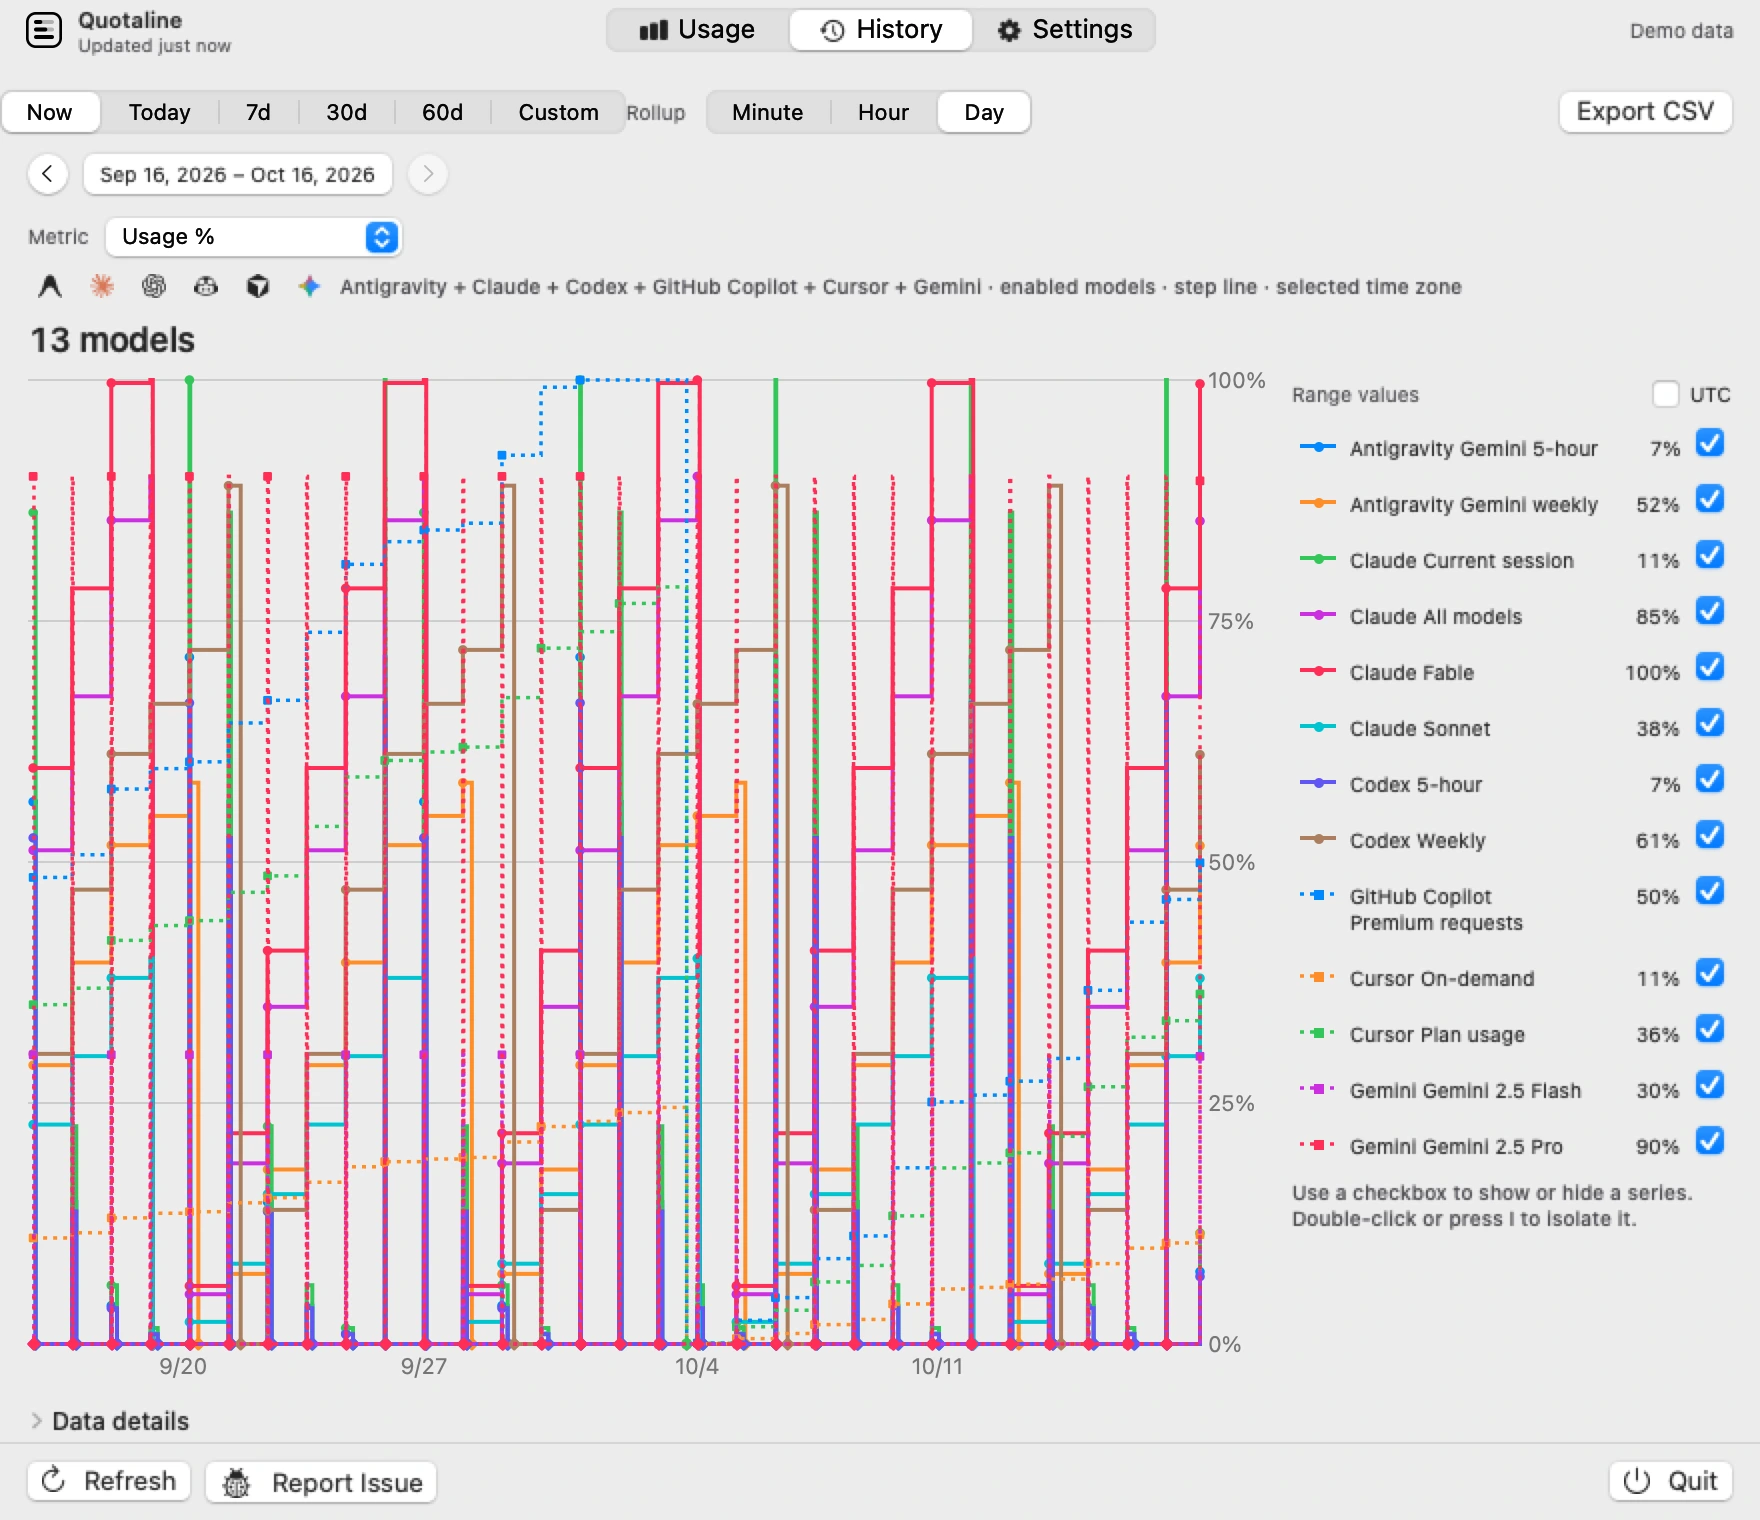
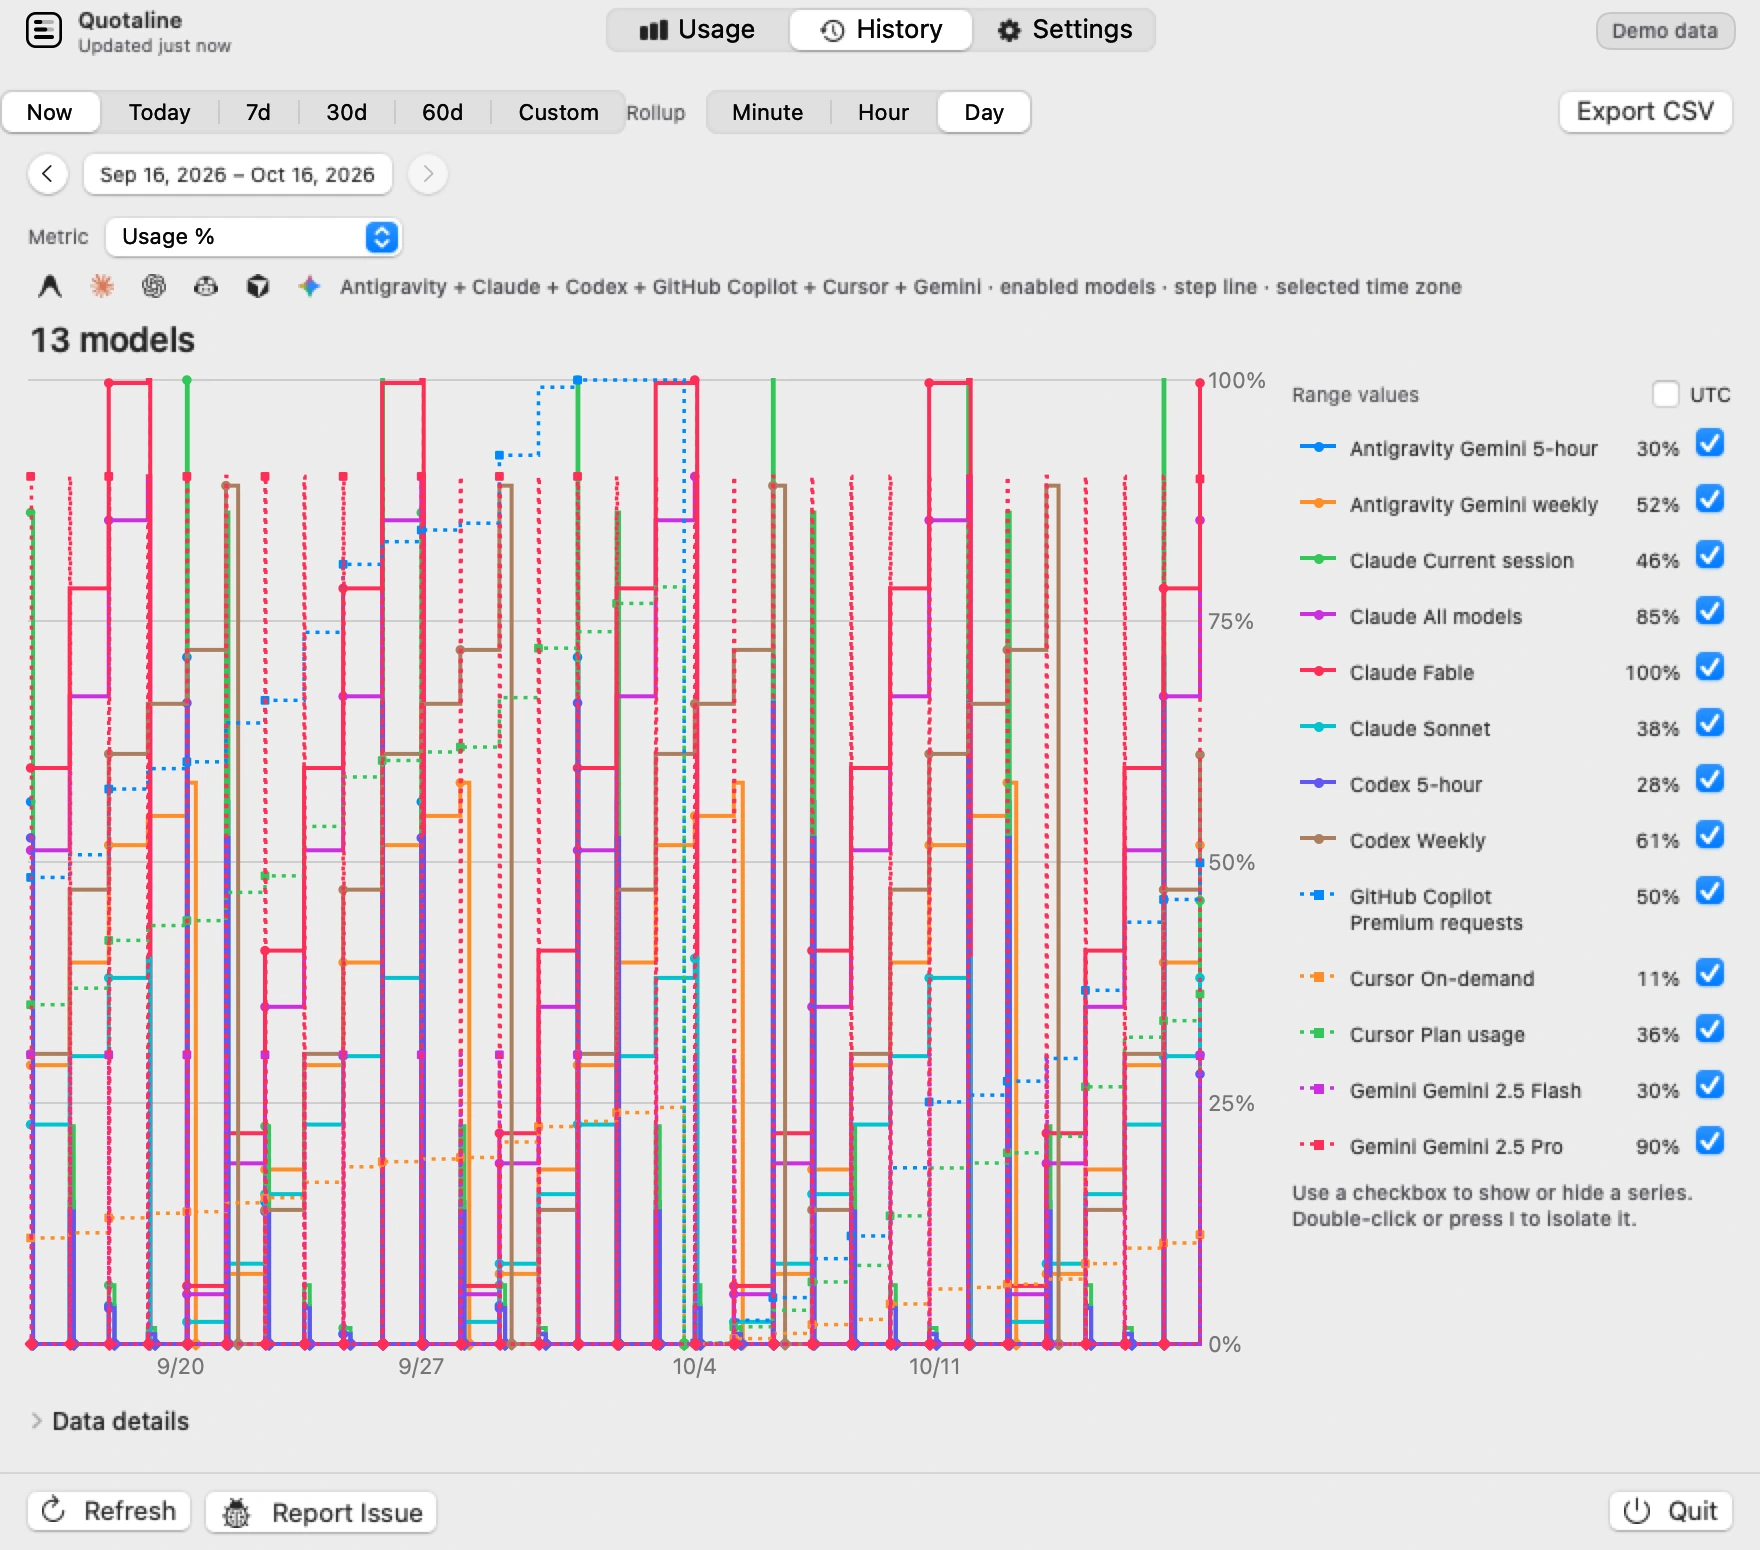
fix: align frontend captures and page width

diff --git a/website/assets/css/site.css b/website/assets/css/site.css
@@ -27,7 +27,6 @@
   --shadow-lg: 0 24px 60px rgba(15, 17, 23, 0.16);
 
   --page: 1240px;
-  --prose: 1140px;
   --sans: -apple-system, BlinkMacSystemFont, "SF Pro Text", "Segoe UI", Inter, system-ui, sans-serif;
   --mono: ui-monospace, SFMono-Regular, "SF Mono", Menlo, "Cascadia Mono", monospace;
 }
@@ -503,14 +502,18 @@ td {
 }
 
 .hero-panel > .shot {
-  max-height: 500px;
-  width: auto;
+  width: min(100%, 440px);
+  height: 500px;
+  object-fit: cover;
+  object-position: top;
   margin: 0 auto;
 }
 
 .hero-preview .shot {
-  max-height: 300px;
-  width: auto;
+  width: 100%;
+  height: 300px;
+  object-fit: cover;
+  object-position: top;
 }
 
 .hero-image .shot {
@@ -639,9 +642,8 @@ td {
 
 .platform-overview {
   display: grid;
-  grid-template-columns: minmax(0, 0.9fr) minmax(0, 1.1fr);
-  align-items: center;
-  gap: clamp(2rem, 5vw, 5rem);
+  grid-template-columns: minmax(0, 1fr);
+  gap: 1.5rem;
   margin-bottom: 3rem;
 }
 
@@ -649,6 +651,7 @@ td {
   display: grid;
   place-items: center;
   min-height: 300px;
+  width: 100%;
   padding: 1.5rem;
   border-radius: var(--radius-lg);
   background: radial-gradient(circle at center, rgba(122, 90, 245, 0.15), transparent 70%), var(--raised);
@@ -657,6 +660,10 @@ td {
 .platform-overview-image .shot {
   width: 100%;
   height: auto;
+}
+
+.platform-gallery-panel .shot {
+  max-width: 880px;
 }
 
 .platform-gallery {
@@ -875,14 +882,14 @@ td {
 }
 
 .page .wrap {
-  max-width: var(--prose);
+  max-width: var(--page);
 }
 
 .page .doc-layout {
   max-width: var(--page);
   display: grid;
-  grid-template-columns: 220px minmax(0, 1fr);
-  gap: clamp(2rem, 4vw, 4rem);
+  grid-template-columns: minmax(0, 1fr);
+  gap: 1.5rem;
 }
 
 .doc-main {
@@ -890,13 +897,10 @@ td {
 }
 
 .doc-sidebar {
-  position: sticky;
-  top: 95px;
-  align-self: start;
-  display: grid;
-  gap: 0.15rem;
-  max-height: calc(100vh - 110px);
-  overflow-y: auto;
+  display: flex;
+  flex-wrap: wrap;
+  align-items: center;
+  gap: 0.2rem;
   font-size: 0.88rem;
 }
 
@@ -916,16 +920,11 @@ td {
 .doc-sidebar .doc-sidebar-title {
   color: var(--ink);
   font-weight: 700;
-  margin-bottom: 0.5rem;
+  margin-right: 0.5rem;
 }
 
 .page-wide .wrap {
   max-width: var(--page);
-}
-
-.page-wide:not(.platform-page) .prose,
-.page-wide:not(.platform-page) .cards {
-  max-width: 76ch;
 }
 
 .page-title {
@@ -960,12 +959,6 @@ td {
   border-radius: var(--radius);
   border: 1px solid var(--line);
   box-shadow: var(--shadow-sm);
-}
-
-.prose > p,
-.prose > ul,
-.prose > ol {
-  max-width: 76ch;
 }
 
 .page-toc {
@@ -1111,16 +1104,9 @@ pre.mermaid svg {
     grid-template-columns: repeat(auto-fit, minmax(255px, 1fr));
   }
 
-  .page .doc-layout {
-    grid-template-columns: 1fr;
-    gap: 1.5rem;
-  }
-
   .doc-sidebar {
-    position: static;
-    display: flex;
-    gap: 0.3rem;
     overflow-x: auto;
+    flex-wrap: nowrap;
     white-space: nowrap;
     max-height: none;
     padding-bottom: 0.4rem;

diff --git a/gnome/extension/stylesheet.css b/gnome/extension/stylesheet.css
@@ -1,12 +1,12 @@
-.tmb-panel-cells { spacing: 4px; background-color: #303034; border-radius: 6px; }
-.tmb-light .tmb-panel-cells { background-color: #e3e3e8; }
-.tmb-panel-cell { spacing: 0; padding: 1px 1px; }
+.tmb-panel-button { background-color: transparent; border-radius: 0; box-shadow: none; }
+.tmb-panel-cells { spacing: 4px; }
+.tmb-panel-cell { spacing: 0; padding: 1px 3px; }
 .tmb-panel-separator { width: 1px; height: 20px; background-color: #a4a4ac; }
 .tmb-light .tmb-panel-separator { background-color: #55555c; }
 .tmb-panel-cell-stacked { spacing: 0; }
-.tmb-panel-line { font-size: 8pt; text-align: center; }
+.tmb-panel-line { font-size: 8pt; font-weight: normal; text-align: center; }
 .tmb-panel-inline { font-size: 8pt; }
-.tmb-panel-value { font-weight: bold; }
+.tmb-panel-value { font-weight: 500; }
 .tmb-panel-cell-stacked .tmb-panel-value { font-size: 10pt; }
 .tmb-panel-label { font-size: 9pt; padding-left: 4px; }
 .tmb-panel-mini { spacing: 4px; }
@@ -33,19 +33,20 @@
 
 .tmb-root { spacing: 0; }
 .tmb-root-narrow .tmb-header { padding: 4px 8px; }
-.tmb-root-narrow .tmb-tab { width: 88px; font-size: 9pt; }
+.tmb-root-narrow .tmb-tab { font-size: 9pt; }
 .tmb-root-narrow .tmb-tab-content { spacing: 4px; }
 .tmb-root-compact-header .tmb-header-info { width: 165px; }
 .tmb-root-narrow .tmb-page { padding: 8px 12px 12px; }
 .tmb-root-narrow .tmb-footer { padding: 7px 8px; }
 .tmb-root-narrow .tmb-history-label { min-width: 44px; }
 .tmb-root-narrow .tmb-metric-picker { min-width: 0; }
-.tmb-header { padding: 4px 16px; border-bottom: 1px solid rgba(128,128,128,0.20); }
+.tmb-header { padding: 4px 12px; border-bottom: 1px solid rgba(128,128,128,0.20); }
 .tmb-header-info { width: 165px; spacing: 7px; }
 .tmb-header-heading { spacing: 1px; }
 .tmb-header-updated, .tmb-header-activity { font-size: 8pt; opacity: 0.68; }
+.tmb-demo-badge { padding: 3px 8px; border: 1px solid rgba(128,128,128,0.24); border-radius: 7px; background-color: rgba(128,128,128,0.15); font-weight: 500; opacity: 1; }
 .tmb-tabs { spacing: 0; border: 1px solid rgba(128,128,128,0.38); border-radius: 8px; }
-.tmb-tab { width: 92px; padding: 3px 0; font-size: 10pt; text-align: center; }
+.tmb-tab { width: 88.33px; padding: 3px 0; font-size: 10pt; text-align: center; }
 .tmb-tab-content { spacing: 5px; }
 .tmb-tab:hover { background-color: rgba(128,128,128,0.16); }
 .tmb-tab-selected, .tmb-tab-selected:hover { background-color: rgba(160,160,160,0.42); color: white; font-weight: bold; border-radius: 6px; }

diff --git a/gnome/extension/tests/integration/shell-smoke/helpers.ts b/gnome/extension/tests/integration/shell-smoke/helpers.ts
@@ -216,31 +216,41 @@ export async function captureStatus(name: string) {
     if (!directory) return;
     GLib.mkdir_with_parents(directory, 0o755);
     const indicator = required(getIndicator());
-    const [indicatorX] = indicator.get_transformed_position();
-    const stream = Gio.File.new_for_path(GLib.build_filenamev([directory, `${name}.png`])).replace(
-        null,
-        false,
-        Gio.FileCreateFlags.REPLACE_DESTINATION,
-        null,
-    );
-    await new Promise<void>((resolve, reject) => {
-        new Shell.Screenshot().screenshot_area(
-            Math.max(0, Math.round(indicatorX + indicator.width - 520)),
-            0,
-            520,
-            32,
-            stream,
-            (source, result) => {
-                try {
-                    required(source).screenshot_area_finish(result);
-                    stream.close(null);
-                    resolve();
-                } catch (error) {
-                    reject(failure(error));
-                }
-            },
+    const wasOpen = indicator.menu.isOpen;
+    if (wasOpen) {
+        indicator.menu.close(false);
+        indicator.set_hover(false);
+        await afterPaint(() => {});
+    }
+    try {
+        const [indicatorX] = indicator.get_transformed_position();
+        const stream = Gio.File.new_for_path(GLib.build_filenamev([directory, `${name}.png`])).replace(
+            null,
+            false,
+            Gio.FileCreateFlags.REPLACE_DESTINATION,
+            null,
         );
-    });
+        await new Promise<void>((resolve, reject) => {
+            new Shell.Screenshot().screenshot_area(
+                Math.max(0, Math.round(indicatorX + indicator.width - 520)),
+                0,
+                520,
+                32,
+                stream,
+                (source, result) => {
+                    try {
+                        required(source).screenshot_area_finish(result);
+                        stream.close(null);
+                        resolve();
+                    } catch (error) {
+                        reject(failure(error));
+                    }
+                },
+            );
+        });
+    } finally {
+        if (wasOpen) indicator.menu.open(false);
+    }
 }
 
 export {containsText, findActor, findActors};

diff --git a/macos/src/QuotalineUI/ExportRunner.swift b/macos/src/QuotalineUI/ExportRunner.swift
@@ -130,7 +130,7 @@ public enum ExportRunner {
           onMeasure: { measurement in
             if measurement.tab == tab { measured.value = measurement.size }
           })
-        // Measurement arrives on the next run-loop turn; retain the live viewport cap in the final capture.
+        // Measurement arrives on the next run-loop turn after the viewport has laid out its content.
         let hosting = view.makeNativeView()
         hosting.appearance = NSAppearance(named: dark ? .darkAqua : .aqua)
         hosting.frame = CGRect(origin: .zero, size: shotSize)
@@ -147,7 +147,7 @@ public enum ExportRunner {
     return written
   }
 
-  /// A laptop-sized viewport, with overflow scrolling inside the tab.
+  /// A laptop-sized viewport for measuring the tab's full content.
   static var shotSize: CGSize {
     let screen = CGRect(x: 0, y: 0, width: 1512, height: 944)
     let anchor = CGRect(x: screen.midX, y: screen.maxY - 24, width: 40, height: 24)
@@ -159,7 +159,7 @@ public enum ExportRunner {
   static func exportSize(measured: CGSize, fallback: CGSize) -> CGSize {
     CGSize(
       width: fallback.width,
-      height: measured.height > 0 ? min(measured.height, fallback.height) : fallback.height)
+      height: measured.height > 0 ? measured.height : fallback.height)
   }
 }
 

diff --git a/macos/src/QuotalineCore/StatusBar/UsageColor.swift b/macos/src/QuotalineCore/StatusBar/UsageColor.swift
@@ -47,6 +47,10 @@ public struct UsageLadder: Hashable, Sendable {
     green: HSBColor(hue: 0.38, saturation: 0.95, brightness: 0.4),
     orange: HSBColor(hue: 0.08, saturation: 1, brightness: 0.74),
     red: HSBColor(hue: 0, saturation: 1, brightness: 0.6))
+  public static let status = UsageLadder(
+    green: HSBColor(hue: 0.38, saturation: 0.7, brightness: 1),
+    orange: HSBColor(hue: 0.08, saturation: 0.78, brightness: 1),
+    red: HSBColor(hue: 0.025, saturation: 0.55, brightness: 1))
 
   public static func ladder(for contrast: UsageContrast) -> UsageLadder {
     contrast == .increased ? increased : standard
@@ -64,7 +68,14 @@ public enum UsageColor {
   }
 
   public static func color(pace: PaceStatus, percent: Double, contrast: UsageContrast = .standard) -> HSBColor {
-    let ladder = UsageLadder.ladder(for: contrast)
+    color(pace: pace, percent: percent, ladder: UsageLadder.ladder(for: contrast))
+  }
+
+  public static func statusColor(percent: Double) -> HSBColor {
+    color(pace: .unknown, percent: percent, ladder: .status)
+  }
+
+  private static func color(pace: PaceStatus, percent: Double, ladder: UsageLadder) -> HSBColor {
     switch pace {
     case .ahead: return ladder.orange
     case .exhausted: return ladder.red

diff --git a/gnome/extension/src/panel.ts b/gnome/extension/src/panel.ts
@@ -333,6 +333,7 @@ export class TokenPanel {
         this._cancel = new Gio.Cancellable();
         this._tooltip = new Tooltip();
         this._indicator = new PanelMenu.Button(0.5, COPY.appName, false) as Indicator;
+        this._indicator.add_style_class_name('tmb-panel-button');
         const panel = box(false, 'panel-status-menu-box');
         const appIcon = new Gio.FileIcon({
             file: Gio.File.new_for_path(GLib.build_filenamev([this.path, 'icons', 'quotaline-symbolic.svg'])),
@@ -422,9 +423,10 @@ export class TokenPanel {
         this._headerBalance = box();
         this._headerBalance.width = 165;
         this._headerActivity = label('', 'tmb-header-activity');
-        this._headerActivity.x_expand = true;
+        this._headerBalance.add_child(new St.Widget({x_expand: true}));
         this._headerActivity.x_align = Clutter.ActorAlign.END;
         this._headerBalance.add_child(this._headerActivity);
+        rightGap.add_child(new St.Widget({x_expand: true}));
         rightGap.add_child(this._headerBalance);
         header.add_child(rightGap);
         this._root.add_child(header);

diff --git a/gnome/extension/src/panel/display.ts b/gnome/extension/src/panel/display.ts
@@ -190,6 +190,8 @@ export const displayMethods = {
     _updateHeader(this: TokenPanel): void {
         this._headerUpdated.text = this._timePresentation?.header_updated ?? 'Updated never';
         this._headerActivity.text = this._timePresentation?.header_activity ?? '';
+        if (this._state?.settings.demo) this._headerActivity.add_style_class_name('tmb-demo-badge');
+        else this._headerActivity.remove_style_class_name('tmb-demo-badge');
         for (const {actor, id} of this._providerStatusLabels)
             actor.text = this._timePresentation?.provider_statuses[id] as string;
         if (this._ageClock) {

diff --git a/gnome/extension/tests/integration/theme.test.ts b/gnome/extension/tests/integration/theme.test.ts
@@ -151,11 +151,7 @@ export async function run() {
                 /../g,
             ),
         ).map(channel => parseInt(channel, 16));
-        const panelCells = instance(
-            required(findActor(indicator, actor => actor.has_style_class_name?.('tmb-panel-cells'))),
-            St.Widget,
-        );
-        const background = panelCells.get_theme_node().get_background_color();
+        const background = Main.panel.get_theme_node().get_background_color();
         const [lighter, darker] = [
             luminance([background.red, background.green, background.blue]),
             luminance(color),

diff --git a/macos/src/QuotalineUI/Views/RootView.swift b/macos/src/QuotalineUI/Views/RootView.swift
@@ -80,8 +80,12 @@ public struct RootView: View {
         }
         if environment.isDemo {
           Text(SharedCopy.demoData)
-            .font(.caption)
+            .font(.system(size: 10, weight: .medium))
             .semanticForeground(.secondary)
+            .padding(.horizontal, 8)
+            .padding(.vertical, 3)
+            .background(Color.primary.opacity(0.07), in: RoundedRectangle(cornerRadius: 7))
+            .overlay(RoundedRectangle(cornerRadius: 7).strokeBorder(Color.primary.opacity(0.12)))
             .accessibilityIdentifier("usage-demo-badge")
         }
       }

diff --git a/macos/src/QuotalineUI/PopoverExport.swift b/macos/src/QuotalineUI/PopoverExport.swift
@@ -6,8 +6,7 @@ import SwiftUI
 /// and whatever sits behind it, so the export hosts the same view offscreen and keeps the content alone.
 @MainActor
 public enum PopoverExporter {
-  /// Renders a view offscreen at the size the popover would give it, so the shot shows what a viewer would see
-  /// rather than the whole scrolled content unrolled.
+  /// Renders the native view offscreen at the requested size.
   public static func image(_ view: some View, dark: Bool, size: CGSize? = nil) -> NSImage? {
     image(NSHostingView(rootView: view), dark: dark, size: size)
   }

diff --git a/macos/src/QuotalineUI/StatusItem/StatusItemRenderer.swift b/macos/src/QuotalineUI/StatusItem/StatusItemRenderer.swift
@@ -34,9 +34,9 @@ public enum StatusItemRenderer {
     case .number:
       return (dark ? NSColor.white : NSColor.black).withAlphaComponent(0.85)
     case .usage(let percent):
-      let hsb = UsageColor.color(percent: percent)
+      let hsb = dark ? UsageColor.statusColor(percent: percent) : UsageColor.color(percent: percent)
       return NSColor(
-        hue: hsb.hue, saturation: hsb.saturation, brightness: dark ? hsb.brightness + 0.1 : hsb.brightness, alpha: 1)
+        hue: hsb.hue, saturation: hsb.saturation, brightness: hsb.brightness, alpha: 1)
     }
   }
 

diff --git a/macos/tests/QuotalineUITests/BrandIconTests.swift b/macos/tests/QuotalineUITests/BrandIconTests.swift
@@ -116,9 +116,9 @@ func popoverExportsUseRetinaResolutionWithoutChangingLayout(dark: Bool) throws {
 
 @Test(arguments: [
   (CGSize(width: 880, height: 640), 640.0),
-  (CGSize(width: 400, height: 1200), 760.0),
+  (CGSize(width: 400, height: 1200), 1200.0),
   (CGSize.zero, 760.0),
-]) @MainActor func popoverExportKeepsWidthAndCapsTheMeasuredHeight(measured: CGSize, expectedHeight: Double) {
+]) @MainActor func popoverExportKeepsWidthAndMeasuredHeight(measured: CGSize, expectedHeight: Double) {
   let fallback = CGSize(width: 880, height: 760)
 
   #expect(
